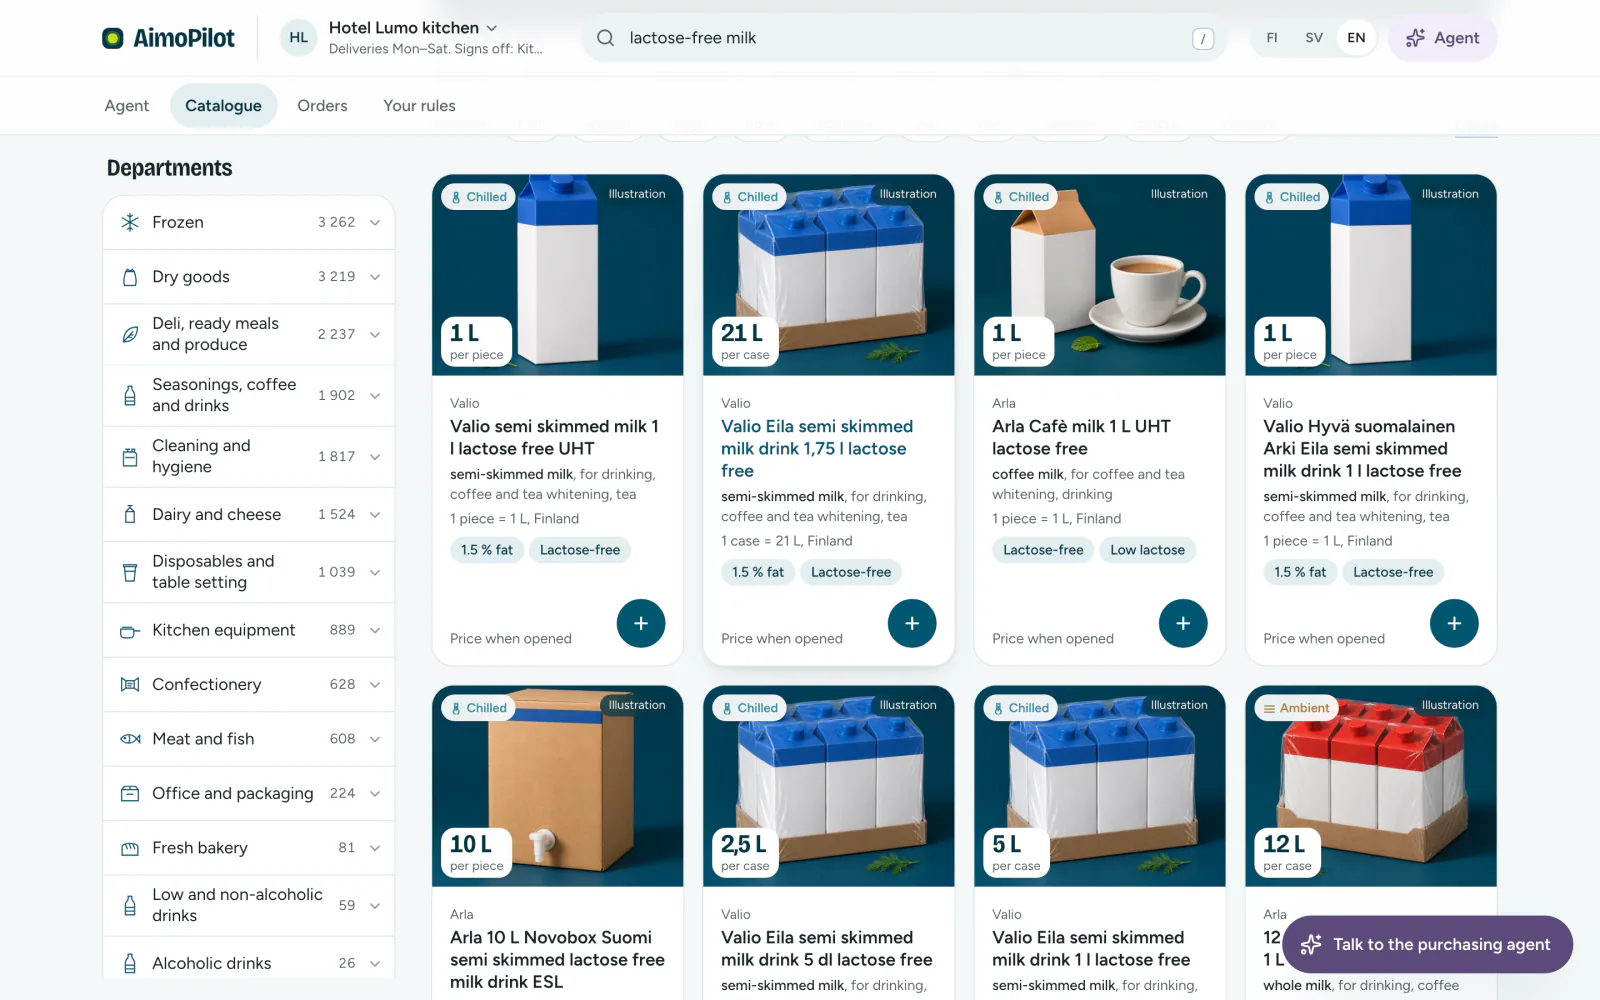
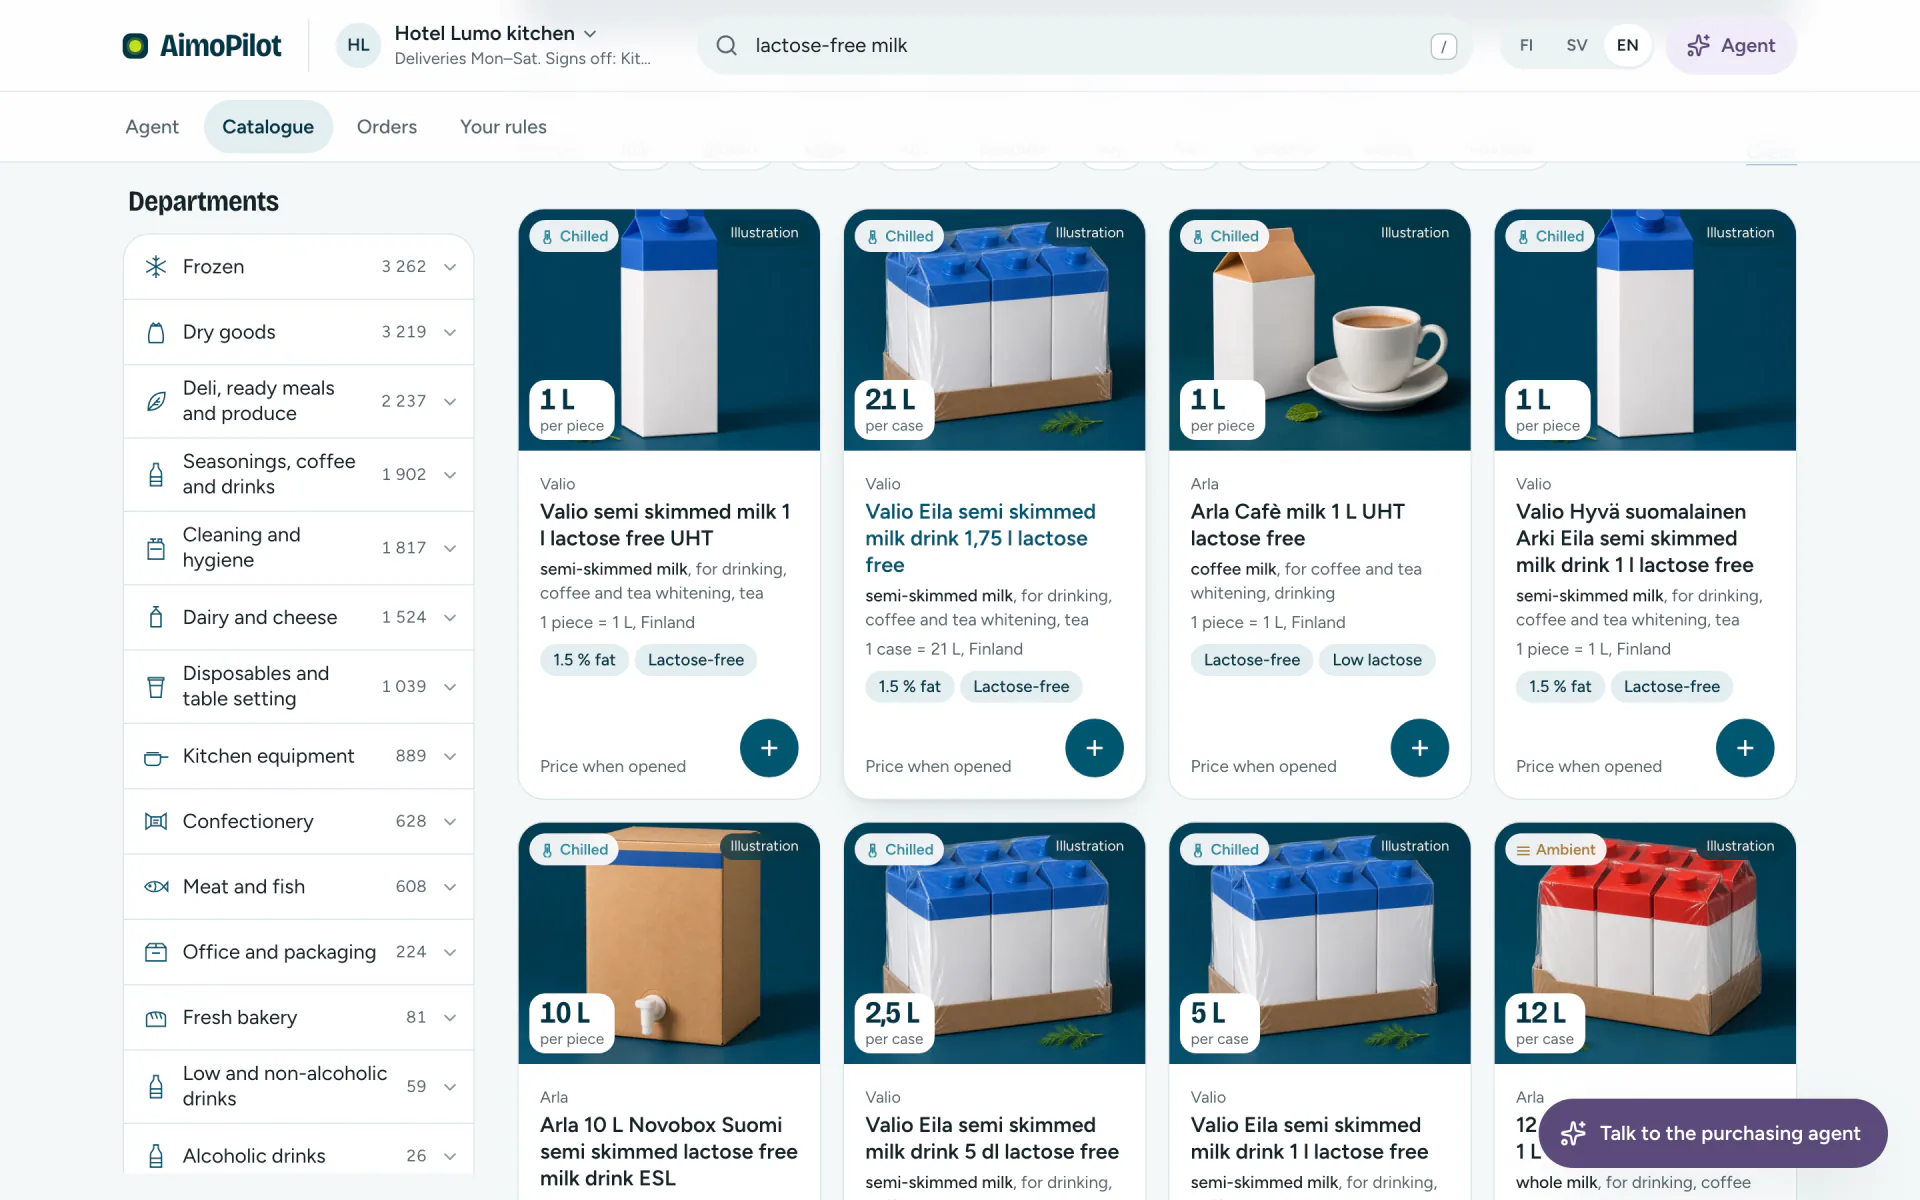
Landing webshop section: a stage you can read, its heading kept in view, shorter cross-fades
- From 1024 px the desk frame takes the width (959 px at 1440x900, was ~590),
  right-aligned, with a proportionally larger phone over its bottom-left corner;
  the four steps sit in one row right under the frame, the three points in a
  row below the stage. The frame's width also follows the screen's height.
- The heading and its line are inside the sticky part, so they stay in view
  with the stage while the scroll plays it.
- Each cross-fade between two captures is 3 % of the track (about 43 px of
  scroll at 900 px tall), so the doubled picture passes quickly.
- Desktop captures re-made 1920 px wide (2x at the new size): 693 KB for all six.

Changed region(s): [[0.7188, 0.682, 0.75, 0.713], [0.7188, 0.186, 0.75, 0.217], [0.5312, 0.403, 0.5625, 0.434]]

diff --git a/web/src/app/_landing2/landing2.css b/web/src/app/_landing2/landing2.css
@@ -1489,24 +1489,25 @@
 
   /*
    * At rest (no script, or reduced motion) the stage shows one finished moment: the desk at the sign-off, the phone at
-   * the substitute, every step listed. With `l2-js` the track grows tall and the stage sticks while the scroll plays
-   * the captures in order: the catalogue alone, the agent's panel sliding in over it (the asked frame's own panel,
-   * clipped at its left edge, 62.25 % across), the catalogue settling beside it, the substitute, the sign-off; the
-   * phone rises in with the substitute. Only opacity and transform change.
+   * the substitute, every step listed. With `l2-js` the track grows tall and its sticky part (the heading, the stage,
+   * the steps) holds still while the scroll plays the captures in order: the catalogue alone, the agent's panel
+   * sliding in over it (the asked frame's own panel, clipped at its left edge, 62.25 % across), the catalogue settling
+   * beside it, the substitute, the sign-off; the phone rises in with the substitute. Each cross-fade between two
+   * captures takes 3 % of the track, so a doubled picture lasts only a few pixels of scroll. Only opacity and
+   * transform change.
+   *
+   * From 1024 px the desk frame takes the width (about 960 px at 1440 x 900), right-aligned, with the phone over its
+   * bottom-left corner; its width also follows the screen's height, so the heading and the steps stay in view.
    */
-  .l2-shop {
-    display: grid;
-    gap: 2.75rem;
+  .l2-shop-h2 {
+    max-width: none;
   }
-  @media (min-width: 1200px) {
-    .l2-shop {
-      grid-template-columns: minmax(0, 2.2fr) minmax(0, 1fr);
-      gap: 3rem;
-      align-items: start;
-    }
+  .l2-shop-line {
+    max-width: 62rem;
   }
   .l2-shop-stage {
     position: relative;
+    margin-top: 2rem;
     padding-bottom: 9%;
   }
   .l2-shop-desk {
@@ -1520,7 +1521,7 @@
   }
   .l2-shop-frames {
     position: relative;
-    aspect-ratio: 1600 / 1000;
+    aspect-ratio: 1920 / 1200;
     overflow: hidden;
     background: var(--color-mist);
   }
@@ -1560,16 +1561,55 @@
       width: 30%;
     }
   }
+  @media (min-width: 1024px) {
+    .l2 {
+      --shop-w: calc(100% / 1.18);
+    }
+    .l2-shop-stage {
+      padding-bottom: 0;
+    }
+    .l2-shop-deskwrap {
+      position: relative;
+      width: var(--shop-w);
+      margin-left: auto;
+    }
+    .l2-shop-desk {
+      margin-left: 0;
+    }
+    .l2-shop-phone {
+      left: -18%;
+      width: 24%;
+    }
+    .l2-shop-phone .l2-phone {
+      border-radius: 28px;
+      padding: 6px;
+    }
+    .l2-shop-phone .l2-phone-screen {
+      border-radius: 22px;
+    }
+  }
   .l2-shop-steps {
-    margin-top: 1.25rem;
+    margin-top: 1rem;
     display: grid;
-    gap: 0.45rem;
+    gap: 0.45rem 1.25rem;
     font-size: 0.95rem;
     line-height: 1.4;
   }
+  @media (min-width: 640px) {
+    .l2-shop-steps {
+      grid-template-columns: repeat(2, minmax(0, 1fr));
+    }
+  }
+  @media (min-width: 1024px) {
+    .l2-shop-steps {
+      grid-template-columns: repeat(4, minmax(0, 1fr));
+      width: var(--shop-w);
+      margin-left: auto;
+    }
+  }
   .l2-shop-steps li {
     display: flex;
-    gap: 0.65rem;
+    gap: 0.6rem;
     align-items: baseline;
   }
   .l2-shop-n {
@@ -1585,11 +1625,14 @@
     font-weight: 650;
     transform: translateY(-0.05rem);
   }
+  .l2-shop-side {
+    margin-top: 3rem;
+  }
   .l2-shop-points {
     display: grid;
     gap: 1.4rem;
   }
-  @media (min-width: 640px) and (max-width: 1199px) {
+  @media (min-width: 640px) {
     .l2-shop-points {
       grid-template-columns: repeat(3, minmax(0, 1fr));
       gap: 1.5rem;
@@ -1663,24 +1706,37 @@
     height: 260vh;
     view-timeline: --l2shop block;
   }
+  /* Held just under the page's header: the heading at the top, the stage and the steps under it. */
   .l2-js .l2-shop-sticky {
     position: sticky;
-    top: 60px;
-    min-height: calc(100svh - 60px);
-    display: flex;
-    flex-direction: column;
-    justify-content: center;
-    padding: 1rem 0;
+    top: 70px;
   }
-  /* The stage and its steps fit the screen below the header: the stage's width follows the screen's height. */
-  .l2-js .l2-shop-sticky > * {
-    width: 100%;
-    max-width: calc((100svh - 270px) * 1.59);
+  .l2-js .l2-shop-line {
+    margin-top: 0.4rem;
+  }
+  .l2-js .l2-shop-stage {
+    margin-top: 1rem;
+  }
+  .l2-js .l2-shop-steps {
+    margin-top: 0.6rem;
+  }
+  /* The stage's width follows the screen's height, so heading, stage and steps fit under the header. */
+  .l2-js .l2-shop-stage,
+  .l2-js .l2-shop-steps {
+    max-width: calc((100svh - 356px) * 1.56);
+  }
+  @media (min-width: 1024px) {
+    .l2-js {
+      --shop-w: min(calc(100% / 1.18), calc((100svh - 320px) * 1.6));
+    }
+    .l2-js .l2-shop-stage,
+    .l2-js .l2-shop-steps {
+      max-width: none;
+    }
   }
   @media (min-width: 1200px) {
-    .l2-js .l2-shop-side {
-      position: sticky;
-      top: max(84px, calc(50svh - 15rem));
+    .l2-js {
+      --shop-w: min(calc(100% / 1.18), calc((100svh - 295px) * 1.6));
     }
   }
   .l2-js .l2-shop-slide {
@@ -1700,28 +1756,28 @@
   .l2-sdt .l2-shop-f2 {
     animation: l2-shop-in linear both;
     animation-timeline: --l2shop;
-    animation-range: contain 30% contain 35%;
+    animation-range: contain 30% contain 33%;
   }
   .l2-sdt .l2-shop-f3 {
     animation: l2-shop-in linear both;
     animation-timeline: --l2shop;
-    animation-range: contain 52% contain 58%;
+    animation-range: contain 53% contain 56%;
   }
   .l2-sdt .l2-shop-f4,
   .l2-sdt .l2-shop-p2 {
     animation: l2-shop-in linear both;
     animation-timeline: --l2shop;
-    animation-range: contain 76% contain 82%;
+    animation-range: contain 77% contain 80%;
   }
   .l2-sdt .l2-shop-phone {
     animation: l2-shop-rise linear both;
     animation-timeline: --l2shop;
-    animation-range: contain 48% contain 56%;
+    animation-range: contain 47% contain 53%;
   }
   .l2-sdt .l2-shop-steps li {
     animation: l2-shop-lit linear both;
     animation-timeline: --l2shop;
-    animation-range: contain calc(var(--at) * 1%) contain calc(var(--at) * 1% + 5%);
+    animation-range: contain calc(var(--at) * 1%) contain calc(var(--at) * 1% + 3%);
   }
   /* Without scroll timelines, motion.tsx feeds the same keyframes the track's progress as --p. */
   .l2-js:not(.l2-sdt) .l2-shop-slide {
@@ -1730,24 +1786,24 @@
   }
   .l2-js:not(.l2-sdt) .l2-shop-f2 {
     animation: l2-shop-in 1s linear both paused;
-    animation-delay: calc(clamp(0, (var(--p, 0) - 0.3) / 0.05, 0.999) * -1s);
+    animation-delay: calc(clamp(0, (var(--p, 0) - 0.3) / 0.03, 0.999) * -1s);
   }
   .l2-js:not(.l2-sdt) .l2-shop-f3 {
     animation: l2-shop-in 1s linear both paused;
-    animation-delay: calc(clamp(0, (var(--p, 0) - 0.52) / 0.06, 0.999) * -1s);
+    animation-delay: calc(clamp(0, (var(--p, 0) - 0.53) / 0.03, 0.999) * -1s);
   }
   .l2-js:not(.l2-sdt) .l2-shop-f4,
   .l2-js:not(.l2-sdt) .l2-shop-p2 {
     animation: l2-shop-in 1s linear both paused;
-    animation-delay: calc(clamp(0, (var(--p, 0) - 0.76) / 0.06, 0.999) * -1s);
+    animation-delay: calc(clamp(0, (var(--p, 0) - 0.77) / 0.03, 0.999) * -1s);
   }
   .l2-js:not(.l2-sdt) .l2-shop-phone {
     animation: l2-shop-rise 1s linear both paused;
-    animation-delay: calc(clamp(0, (var(--p, 0) - 0.48) / 0.08, 0.999) * -1s);
+    animation-delay: calc(clamp(0, (var(--p, 0) - 0.47) / 0.06, 0.999) * -1s);
   }
   .l2-js:not(.l2-sdt) .l2-shop-steps li {
     animation: l2-shop-lit 1s linear both paused;
-    animation-delay: calc(clamp(0, (var(--p, 0) - var(--at) / 100) / 0.05, 0.999) * -1s);
+    animation-delay: calc(clamp(0, (var(--p, 0) - var(--at) / 100) / 0.03, 0.999) * -1s);
   }
 
   /* ---------- business, mail, film ---------- */

diff --git a/web/src/app/_landing2/landing2.tsx b/web/src/app/_landing2/landing2.tsx
@@ -373,12 +373,18 @@ export function Landing2() {
           </div>
         </Section>
 
-        {/* The agent inside the shop the kitchen already uses: real captures, cross-faded by the scroll */}
-        <Section id="webshop" title={w.title} line={w.line}>
-          <div className="l2-shop">
-            <div className="l2-shop-track" data-shop-track>
-              <div className="l2-shop-sticky">
-                <figure className="l2-shop-stage" aria-label={w.label}>
+        {/* The agent inside the shop the kitchen already uses: real captures, cross-faded by the scroll. The heading sits
+            in the sticky part, so it stays in view with the stage while the scroll plays it. */}
+        <section id="webshop" aria-labelledby="webshop-t" className="l2-section l2-shop">
+          <span className="l2-node" data-node aria-hidden />
+          <div className="l2-shop-track" data-shop-track>
+            <div className="l2-shop-sticky">
+              <h2 id="webshop-t" className="display l2-h2 l2-shop-h2">
+                {w.title}
+              </h2>
+              <p className="l2-line l2-shop-line">{w.line}</p>
+              <figure className="l2-shop-stage" aria-label={w.label}>
+                <div className="l2-shop-deskwrap">
                   <Browser url="aimopilot / k / hotel-lumo / catalogue" className="l2-shop-desk">
                     <div className="l2-shop-frames">
                       {(["shop-1-catalogue", "shop-2-asked", "slide", "shop-3-substitute", "shop-4-signoff"] as const).map((k) => {
@@ -392,7 +398,7 @@ export function Landing2() {
                             height={f.h}
                             alt={rest ? w.deskAlt : ""}
                             aria-hidden={rest ? undefined : true}
-                            sizes="(min-width: 1024px) 680px, 86vw"
+                            sizes="(min-width: 1200px) 960px, 86vw"
                             unoptimized
                             loading="lazy"
                             className={`l2-shop-f l2-shop-${LAYER[k]}`}
@@ -404,45 +410,45 @@ export function Landing2() {
                   <div className="l2-shop-phone">
                     <Phone>
                       <div className="l2-shop-pframes">
-                        <Image src={SHOP["shop-phone-substitute"].src} width={SHOP["shop-phone-substitute"].w} height={SHOP["shop-phone-substitute"].h} alt={w.phoneAlt} sizes="(min-width: 1024px) 160px, 30vw" unoptimized loading="lazy" className="l2-shop-p l2-shop-p1" />
-                        <Image src={SHOP["shop-phone-signoff"].src} width={SHOP["shop-phone-signoff"].w} height={SHOP["shop-phone-signoff"].h} alt="" aria-hidden sizes="(min-width: 1024px) 160px, 30vw" unoptimized loading="lazy" className="l2-shop-p l2-shop-p2" />
+                        <Image src={SHOP["shop-phone-substitute"].src} width={SHOP["shop-phone-substitute"].w} height={SHOP["shop-phone-substitute"].h} alt={w.phoneAlt} sizes="(min-width: 1200px) 230px, 30vw" unoptimized loading="lazy" className="l2-shop-p l2-shop-p1" />
+                        <Image src={SHOP["shop-phone-signoff"].src} width={SHOP["shop-phone-signoff"].w} height={SHOP["shop-phone-signoff"].h} alt="" aria-hidden sizes="(min-width: 1200px) 230px, 30vw" unoptimized loading="lazy" className="l2-shop-p l2-shop-p2" />
                       </div>
                     </Phone>
                   </div>
-                </figure>
-                <ol className="l2-shop-steps">
-                  {w.steps.map((s, i) => (
-                    <li key={s} style={{ "--at": [0, 14, 52, 76][i] } as CSSProperties}>
-                      <span className="l2-shop-n tabular" aria-hidden>
-                        {i + 1}
-                      </span>
-                      {s}
-                    </li>
-                  ))}
-                </ol>
-              </div>
-            </div>
-            <div className="l2-shop-side">
-              <ul className="l2-shop-points">
-                {w.points.map((p) => (
-                  <li key={p.head}>
-                    <p className="l2-shop-head">{p.head}</p>
-                    <p className="l2-shop-text">{p.text}</p>
+                </div>
+              </figure>
+              <ol className="l2-shop-steps">
+                {w.steps.map((s, i) => (
+                  <li key={s} style={{ "--at": [0, 14, 53, 77][i] } as CSSProperties}>
+                    <span className="l2-shop-n tabular" aria-hidden>
+                      {i + 1}
+                    </span>
+                    {s}
                   </li>
                 ))}
-              </ul>
-              <div className="mt-7 flex flex-wrap items-center gap-x-5 gap-y-3">
-                <Link href="/k" className={`${GO} ${LG}`}>
-                  {w.cta} <ArrowRight size={18} aria-hidden />
-                </Link>
-                <Link href="/try" className={`${QUIET} text-[0.92rem]`}>
-                  {w.connect}
-                </Link>
-              </div>
-              <p className="l2-shop-note">{w.note}</p>
+              </ol>
             </div>
           </div>
-        </Section>
+          <div className="l2-shop-side">
+            <ul className="l2-shop-points">
+              {w.points.map((p) => (
+                <li key={p.head}>
+                  <p className="l2-shop-head">{p.head}</p>
+                  <p className="l2-shop-text">{p.text}</p>
+                </li>
+              ))}
+            </ul>
+            <div className="mt-7 flex flex-wrap items-center gap-x-5 gap-y-3">
+              <Link href="/k" className={`${GO} ${LG}`}>
+                {w.cta} <ArrowRight size={18} aria-hidden />
+              </Link>
+              <Link href="/try" className={`${QUIET} text-[0.92rem]`}>
+                {w.connect}
+              </Link>
+            </div>
+            <p className="l2-shop-note">{w.note}</p>
+          </div>
+        </section>
 
         {/* The comparison that feels like winning */}
         <Section id="search" title={t.search.title} line={t.search.line}>

diff --git a/web/scripts/landing-shots.ts b/web/scripts/landing-shots.ts
@@ -822,13 +822,13 @@ async function reel(browser: Browser) {
  * The store as a kitchen already uses it, with its buying agent docked beside the catalogue: the partner's milk
  * request from the closed panel to the sign-off, at 1440 x 900 (2x), and the same moments on a 390 px phone (2x).
  * The landing page cross-fades these as the reader scrolls. Run on a server with DOCK_SAMPLE_ACTIVITY=off so no
- * sample orders sit in the shot. Desktop frames are written 1600 px wide (the section shows them at most ~800 CSS
- * px wide), phone frames 780 px; each under 150 KB / 80 KB. Listed in src/app/_landing2/webshop.json.
+ * sample orders sit in the shot. Desktop frames are written 1920 px wide (the section shows them up to ~960 CSS px
+ * wide, so 2x), phone frames 780 px; each under 170 KB / 80 KB. Listed in src/app/_landing2/webshop.json.
  */
 async function webshop(browser: Browser) {
   const kitchen = "hotel-lumo";
   const SEARCH = "lactose-free milk";
-  const DESK_O = { width: 1600, max: 150 * 1024, webshop: true };
+  const DESK_O = { width: 1920, max: 170 * 1024, webshop: true };
   const PHONE_O = { width: 780, max: 80 * 1024, webshop: true };
   await resetTestAccounts(browser);
   const desk = await context(browser, "desktop");
